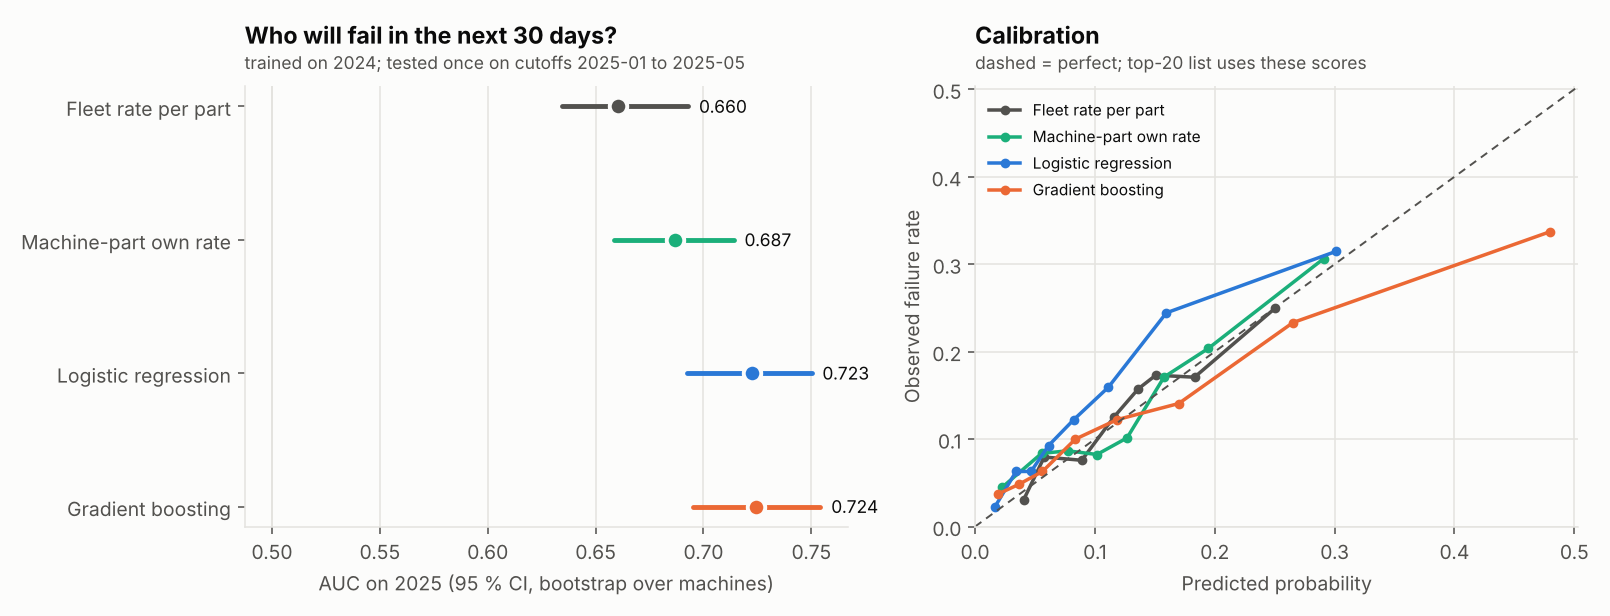
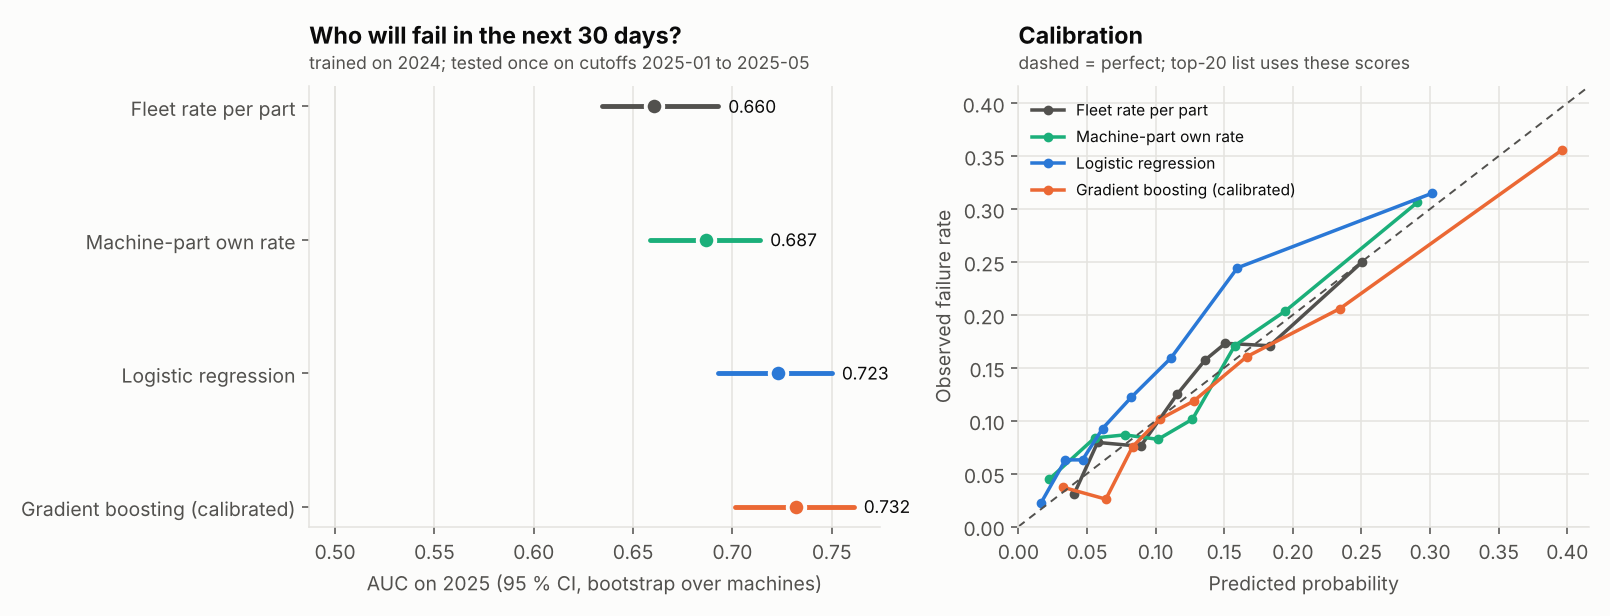
feat(prevision): calibrate the gradient boosting risk model
The raw gradient boosting over-stated the risk of the top machine-parts
(highest calibration bin 0.48 predicted vs 0.34 observed), so its
probabilities were not safe to read as such — a weakness the README
already flagged.

Wrap it in isotonic calibration with 5-fold cross-validation on the
training set (CalibratedClassifierCV). On the seed-42 backtest this
brings the top bin to 0.40/0.36 and the Brier score from 0.110 to 0.106;
the 5-fold averaging also nudges the ranking up (AUC 0.724 -> 0.732,
top-20/month 41 -> 51 of 292 failures). The /risques probabilities are
now meaningful, not just a ranking.

Regenerate reports/ (prevision.json, prevision.png, results.md) from the
calibrated model and update the README numbers, labels and calibration
note to match. kpi.* and pipeline.json are unchanged (model-independent).

Claude-Session: https://claude.ai/code/session_01PH3RBUV9S3FV475MmW2852

diff --git a/src/pannes/prevision.py b/src/pannes/prevision.py
@@ -31,6 +31,8 @@ from datetime import datetime, timedelta
 
 import numpy as np
 import pandas as pd
+from sklearn.base import BaseEstimator
+from sklearn.calibration import CalibratedClassifierCV
 from sklearn.compose import ColumnTransformer
 from sklearn.ensemble import HistGradientBoostingClassifier
 from sklearn.linear_model import LogisticRegression
@@ -142,14 +144,23 @@ def make_logistic() -> Pipeline:
     return Pipeline([("pre", pre), ("clf", LogisticRegression(C=0.5, max_iter=3000))])
 
 
-def make_gbm(seed: int = SEED) -> Pipeline:
+def make_gbm(seed: int = SEED, calibrate: bool = True) -> BaseEstimator:
+    """Gradient boosting on the features. By default wrapped in isotonic calibration with 5-fold
+    cross-validation on the training set (CalibratedClassifierCV). The raw GBM over-states the
+    risk of the top machine-parts, so its probabilities are not safe to read as such; isotonic
+    regression brings the calibration curve back to the diagonal and lowers the Brier score. The
+    5-fold scheme averages five models, which on this data also nudges the ranking (AUC, top-K)
+    up a little as a side effect. Pass calibrate=False for the raw single model."""
     pre = ColumnTransformer([
         ("num", "passthrough", NUM),
         ("cat", OneHotEncoder(handle_unknown="ignore", sparse_output=False), CAT),
     ])
-    return Pipeline([("pre", pre), ("clf", HistGradientBoostingClassifier(
+    gbm = Pipeline([("pre", pre), ("clf", HistGradientBoostingClassifier(
         max_iter=250, learning_rate=0.05, max_leaf_nodes=15, min_samples_leaf=40,
         l2_regularization=1.0, random_state=seed))])
+    if not calibrate:
+        return gbm
+    return CalibratedClassifierCV(gbm, method="isotonic", cv=5)
 
 
 def predict_all(train: pd.DataFrame, test: pd.DataFrame, seed: int = SEED) -> dict:
@@ -320,7 +331,7 @@ def plot_backtest(res: BacktestResult, out_path) -> None:
     colors = dict(zip(MODELS, [INK_2, AQUA, BLUE, ORANGE], strict=True))
     labels = {"taux_flotte": "Fleet rate per part", "taux_machine": "Machine-part own rate",
               "regression_logistique": "Logistic regression",
-              "gradient_boosting": "Gradient boosting"}
+              "gradient_boosting": "Gradient boosting (calibrated)"}
     del YELLOW
     plt.rcParams.update({
         "figure.facecolor": SURFACE, "axes.facecolor": SURFACE, "savefig.facecolor": SURFACE,

diff --git a/src/pannes/report.py b/src/pannes/report.py
@@ -56,7 +56,8 @@ def render_results(r: dict, kpi: dict, prev: dict | None = None) -> str:
 
 NAMES = {"taux_flotte": "Fleet rate per part (baseline)",
          "taux_machine": "Machine-part own rate",
-         "regression_logistique": "Logistic regression", "gradient_boosting": "Gradient boosting"}
+         "regression_logistique": "Logistic regression",
+         "gradient_boosting": "Gradient boosting (calibrated)"}
 
 
 def _prevision_section(p: dict) -> list[str]:

diff --git a/README.md b/README.md
@@ -41,7 +41,7 @@ Python 3.12+.
 ```bash
 pip install -e ".[dev]"
 pannes run                    # demo: 2024 files, nothing new, 2025 files arrive; KPIs; risk backtest
-pytest -q                     # 96 tests
+pytest -q                     # 100 tests
 pannes serve                  # Flask app on http://localhost:5000 (risk list at /risques)
 pannes predict                # re-run the risk backtest and score current risk
 pannes ddl                    # regenerate sql/sqlserver/schema.sql and views.sql
@@ -85,25 +85,28 @@ intervals by bootstrap over machines.
 | Fleet rate per part (baseline) | 0.660 [0.634, 0.693] | 23 / 100 |
 | Machine-part own rate | 0.687 [0.658, 0.714] | 39 / 100 |
 | Logistic regression | 0.723 [0.693, 0.750] | 42 / 100 |
-| **Gradient boosting** | **0.724 [0.695, 0.754]** | 41 / 100 |
+| **Gradient boosting (calibrated)** | **0.732 [0.701, 0.761]** | 51 / 100 |
 
-- Ranking improves clearly over the fleet-rate baseline (gradient boosting gains +0.035 to +0.092
-  AUC): a monthly inspection list of the top 20 machine-parts hits about twice as many real
-  failures as one built from average part rates.
-- It is still a modest model: the top 20 catch only 41 of 292 failures in the test period, and
+- Ranking improves clearly over the fleet-rate baseline (gradient boosting gains +0.039 to +0.099
+  AUC): a monthly inspection list of the top 20 machine-parts hits more than twice as many real
+  failures as one built from average part rates (51 vs 23 per 100 inspections).
+- It is still a modest model: the top 20 catch only 51 of 292 failures in the test period, and
   the most useful signals are the part's fleet rate and the time since its last failure.
-- Probabilities are not well calibrated at the top for gradient boosting (highest bin: 0.48
-  predicted, 0.34 observed); logistic regression is better calibrated (0.30 vs 0.31). Read the
-  risk list as a ranking, not as exact probabilities.
+- The gradient boosting probabilities are calibrated with isotonic regression (5-fold on the
+  training set): the highest bin moves from 0.48 predicted / 0.34 observed (raw) to 0.40 / 0.36,
+  and the Brier score from 0.110 to 0.106. The 5-fold averaging also nudges the ranking up a
+  little (AUC 0.724 → 0.732, top 20 41 → 51). Still, read the risk list first as a ranking.
 - For spare parts (expected failures per part and month) the models do **not** beat simple
-  rates (MAE 1.46 for gradient boosting vs 1.33 for the fleet rate).
+  rates (MAE 1.38 for gradient boosting vs 1.33 for the fleet rate).
 
 ![Backtest](reports/prevision.png)
 
 **Flask app.** Declaring a breakdown that overlaps an open one on the same machine is refused with
 the conflicting breakdown named; a breakdown older than 24 h is accepted only with a delay reason;
 dates in the future, unknown equipment or parts and duplicates are refused. `/risques` lists the
-machine-parts with the highest 30-day risk, filterable by site.
+machine-parts with the highest 30-day risk, filterable by site. The page adapts to the browser's
+light or dark theme. Both tables export to CSV (`/pannes.csv`, `/risques.csv`), and `/api/kpi`
+returns the reliability KPIs as JSON.
 
 ## Design choices
 
@@ -136,5 +139,5 @@ src/pannes/    config, synthetic, clean, db, kpi, prevision, declarations, app, 
                templates/
 sql/sqlserver/ schema.sql and views.sql (generated T-SQL)
 reports/       generated results and figures
-tests/         96 tests
+tests/         100 tests
 ```

diff --git a/reports/results.md b/reports/results.md
@@ -57,8 +57,8 @@ These views are what a Power BI report would connect to; no Power BI report is b
 | Fleet rate per part (baseline) | 0.660 [0.634, 0.693] | baseline | 0.210 | 0.1123 | 23/100 (23 %) | 1.33 |
 | Machine-part own rate | 0.687 [0.658, 0.714] | [-0.001, +0.049] | 0.272 | 0.1098 | 39/100 (39 %) | 1.32 |
 | Logistic regression | 0.723 [0.693, 0.750] | [+0.025, +0.093] | 0.292 | 0.1095 | 42/100 (42 %) | 1.71 |
-| Gradient boosting | 0.724 [0.695, 0.754] | [+0.035, +0.092] | 0.309 | 0.1096 | 41/100 (41 %) | 1.46 |
+| Gradient boosting (calibrated) | 0.732 [0.701, 0.761] | [+0.039, +0.099] | 0.331 | 0.1058 | 51/100 (51 %) | 1.38 |
 
-Most useful signals (drop in AUC when shuffled, gradient boosting): taux_piece_flotte 0.117, jours_depuis_derniere 0.061, n_machine_365 0.050, age_machine 0.016.
+Most useful signals (drop in AUC when shuffled, gradient boosting): taux_piece_flotte 0.115, jours_depuis_derniere 0.067, n_machine_365 0.065, age_machine 0.019.
 
 ![Backtest](prevision.png)
